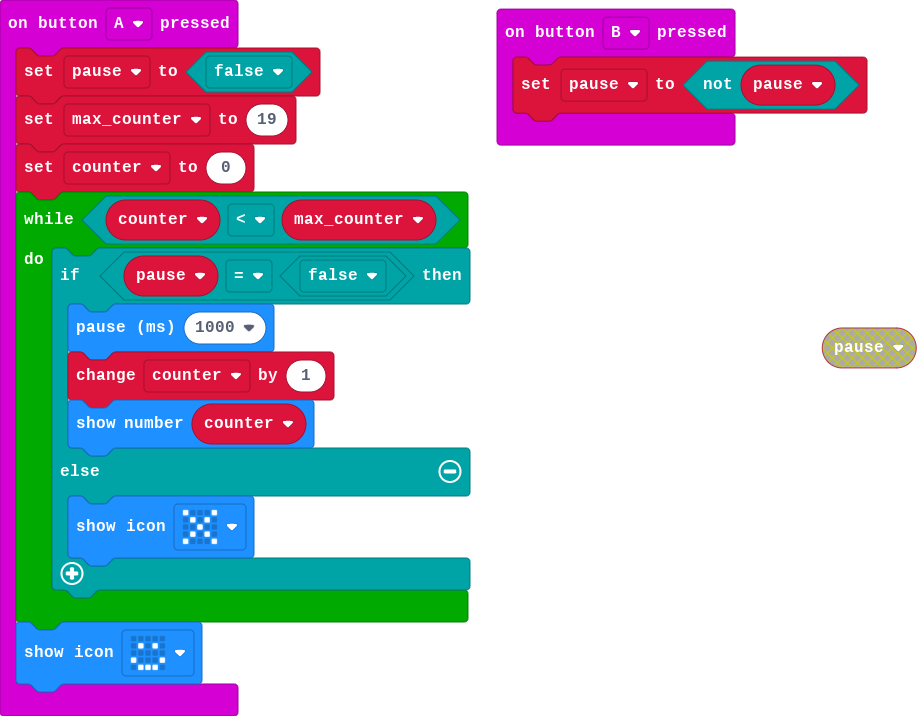
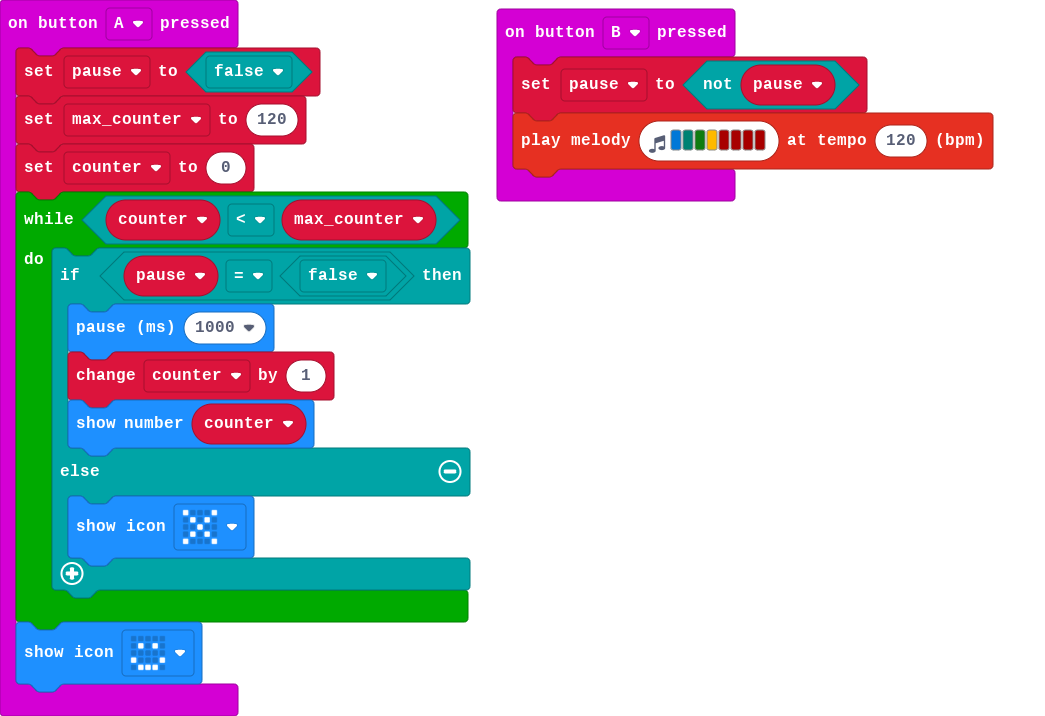
Added melody when pressing pause

diff --git a/main.ts b/main.ts
@@ -3,7 +3,7 @@ let max_counter = 0
 let counter = 0
 input.onButtonPressed(Button.A, function () {
     pause2 = false
-    max_counter = 19
+    max_counter = 120
     counter = 0
     while (counter < max_counter) {
         if (pause2 == false) {
@@ -18,4 +18,5 @@ input.onButtonPressed(Button.A, function () {
 })
 input.onButtonPressed(Button.B, function () {
     pause2 = !(pause2)
+    music.playMelody("E F G A C5 C5 C5 C5 ", 120)
 })
